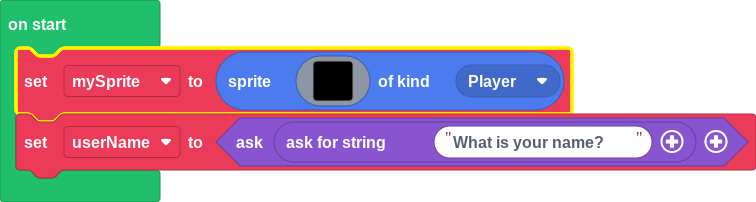
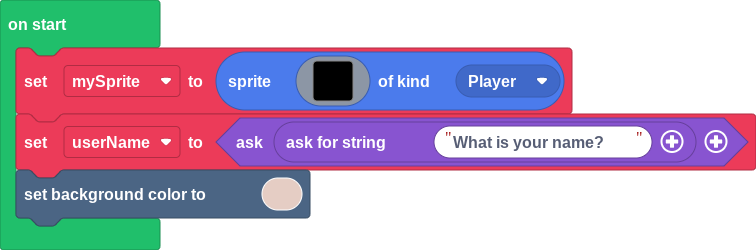
Update pxt.json, main.blocks, main.ts

diff --git a/main.ts b/main.ts
@@ -17,3 +17,4 @@ let mySprite = sprites.create(img`
     . . . . . . . . . . . . . . . . 
     `, SpriteKind.Player)
 let userName = game.ask(game.askForString("What is your name?"))
+scene.setBackgroundColor(13)
